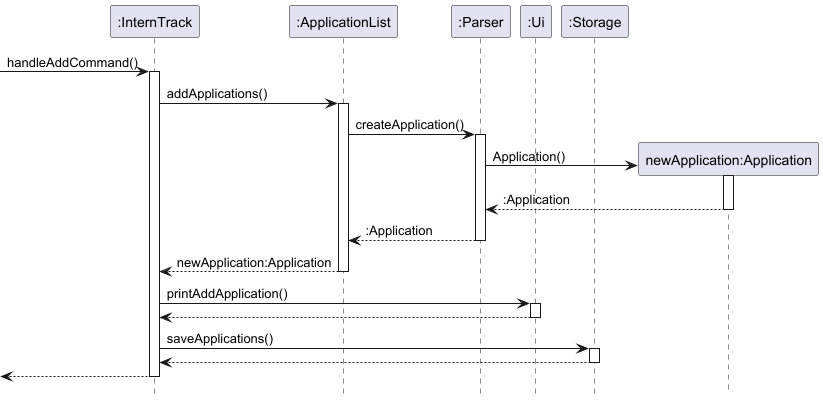
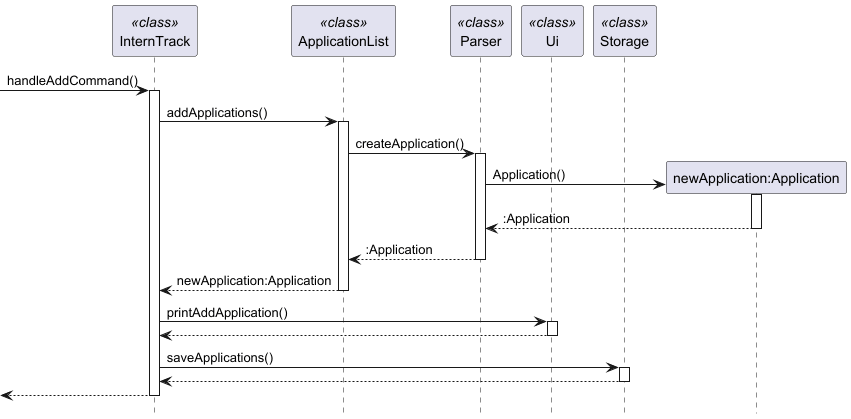
Update sequence diagrams to accurately reflect static methods

Changed region(s): [[0.0, 0.0, 1.0, 0.96], [0.5164, 0.0, 0.7898, 0.15], [0.3341, 0.0, 0.486, 0.15]]

diff --git a/docs/DeveloperGuide.md b/docs/DeveloperGuide.md
@@ -250,8 +250,7 @@ Once the application is running and the user performs an action that modifies th
    - On successful write, an informational log message is recorded
 
 The following sequence diagram illustrates the save operation:
-
-![saveApplications_sequence-saveApplications_Sequence_Diagram.png](diagrams/saveApplications_sequence-saveApplications_Sequence_Diagram.png)
+![save_sequence_diag.png](diagrams/save_sequence_diag.png)
 
 By saving immediately after every modifying operation, the application guarantees that the on-disk state always matches the in-memory state, preventing data loss in the event of a crash or unexpected termination.
 
